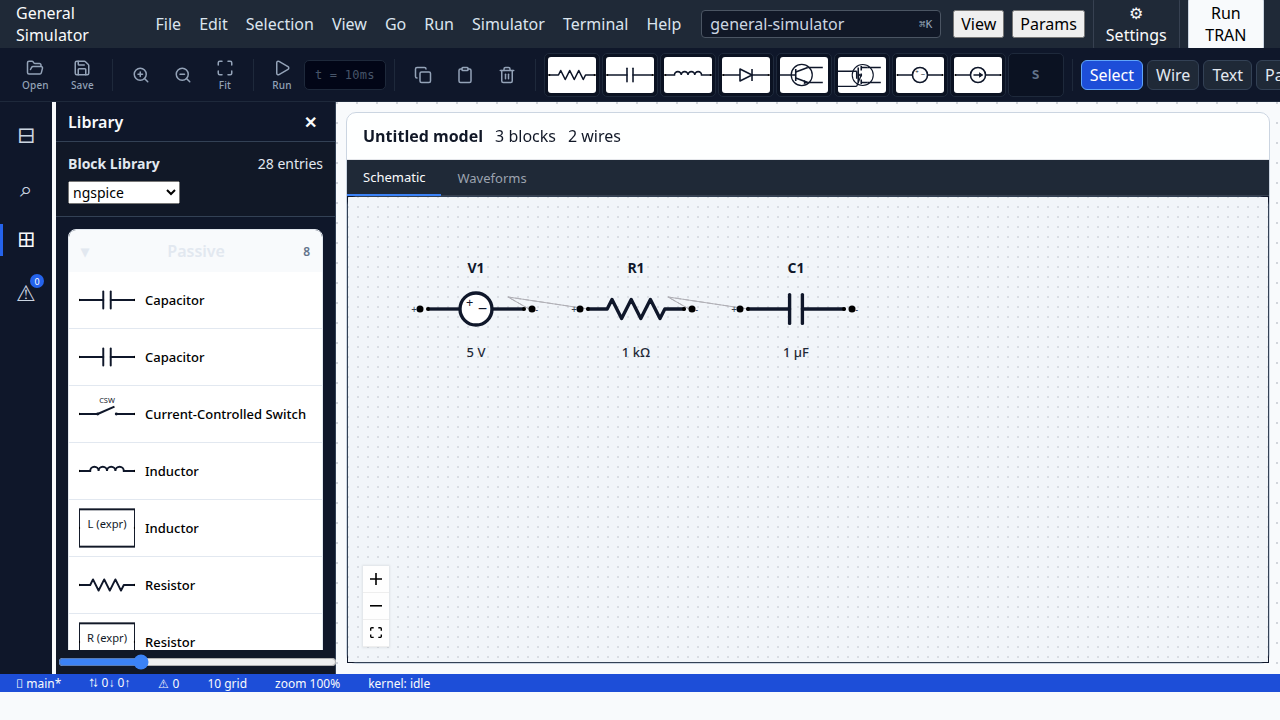
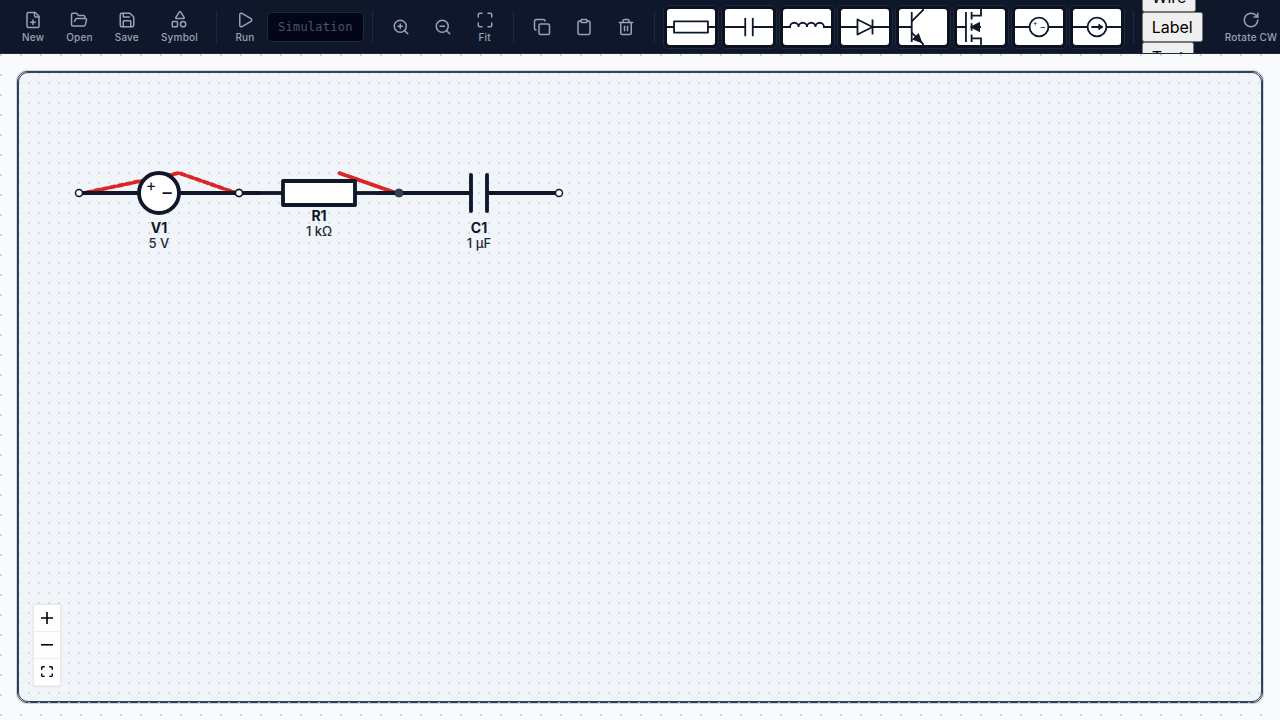
docs: what driving the schematic by mouse turned up
Five defects fixed, three catalog findings left as data decisions, one
suspicion checked against the engine's registry and withdrawn, and the
list of what is now verified.

diff --git a/docs/e2e-findings-2026-11-06.md b/docs/e2e-findings-2026-11-06.md
@@ -1,0 +1,124 @@
+# What driving the schematic by mouse turned up
+
+A record of the defects found by building the end-to-end suite, so the ones
+not fixed here are not lost. Each says what it was, how it showed up, and
+whether it is fixed.
+
+## Fixed
+
+### Recency could displace an exact search match
+
+Typing `passive.switch.voltage` into Quick Insert inserted
+`passive.switch.ideal` — **but only after the ideal switch had been inserted
+once in the same session.**
+
+`passive.switch.ideal` lists `passive.switch.voltage`, another component's
+type name, among its aliases. An exact alias match scored 100; the +40
+recency bonus took it to 140; an exact match on the voltage switch's own
+name scored 120. Recency outranked the thing the user had typed in full.
+
+It needed a *sequence* to appear, which is why no single test saw it and the
+492-component sweep did. Scoring now separates exact matches on a name (120),
+a label (110) and an alias (100), and no exact match takes the recency bonus
+at all — recency ranks things you might have meant, not things you have
+already named.
+
+### The variant picker could not be used from the keyboard
+
+Pressing Enter on a component with fidelity variants expanded a list of
+them, whose entries were click-only: no arrow keys, no Enter, nothing but
+Escape. Inserting a resistor by keyboard was therefore impossible, and from
+the outside it looked exactly like a search that had found nothing. The list
+now moves with the arrows and commits on Enter.
+
+### Naming a variant in full still asked which variant
+
+Typing `physical_electrical.passive.resistor` and then being asked which
+resistor is a step that exists only because the family has siblings. An
+exact name now inserts directly.
+
+### The smoke test had two dead steps
+
+`tests/e2e/smoke.spec.ts` pressed `Ctrl+Shift+.` once and waited for the
+Quick Insert search box. One press opens the *command palette* — a different
+dialog with a different placeholder — so it failed on its first step. It
+also pressed `Ctrl+T` to run, which is not bound to anything; the chord is
+F5. Both steps the test existed to guard were dead.
+
+### The old "manual" test wired nothing by mouse
+
+`rc-circuit-manual-video.spec.ts` moved the pointer from one component's
+centre to another's and then called `__gensim_wire_electrical(...)` to create
+the wire. It looked like a mouse test. No wire was ever drawn by mouse, so
+every bug in the wiring interaction was invisible to it.
+
+## Not fixed — data, and your call
+
+### 186 of 492 manifest entries are exact duplicates
+
+`catalog-manifest.json` lists 186 components twice — same `name`, same
+`filePath`. The runtime catalog dedupes by name so nothing visibly breaks,
+but the manifest is nearly 40% redundant and anything iterating it sees each
+of those twice. Looks like the generator walking a directory tree twice.
+
+### `passive.switch.ideal` claims another component's type name as an alias
+
+```yaml
+aliases: ['ideal switch', 'sw', 'gated switch', 'passive.switch.voltage']
+```
+
+A type name is not an alias of a different type. The ranking fix stops it
+causing the wrong insert, but the data is still wrong, and the same mistake
+elsewhere would be just as invisible.
+
+### Consecutive toolbar inserts land with their terminals coincident
+
+Clicking Insert Resistor then Insert Capacitor places them such that the
+resistor's `n` terminal and the capacitor's `p` terminal are at exactly the
+same point. A drag starting there is ambiguous about which it grabbed, and
+two parts whose pins coincide *look* connected without being wired.
+
+## Checked, and not a bug
+
+### `converter.phys2sig` has no input port
+
+It declares an output and nothing else, which looks broken for a
+physical-to-signal converter. It is not: it reads a circuit node *by name*
+through its `node`/`branch` parameters rather than through a wire, and
+`gsim-core`'s compile registry lists it among the blocks with no inputs at
+all, alongside `const`, `time` and the wave sources. The catalog matches the
+engine.
+
+## Verified working
+
+Everything below is exercised by real presses, travel and releases — no test
+hook performs an action.
+
+- Placing from the toolbar and from Quick Insert; dragging; terminals
+  following their component.
+- Wiring terminal to terminal; wires surviving a move, a rotation and an
+  undo; deleting a component taking its wires with it.
+- **Every port domain**: all seven connect to themselves, and all 42
+  cross-domain pairs are refused.
+- Converters bridging signal to electrical, and the direct connection being
+  refused.
+- Fan-in: an electrical node takes many wires, a signal input takes one.
+- Select, marquee, rotate (both ways, four times round), flip, copy, paste,
+  delete.
+- The inspector, including parameters that change a component's port count —
+  `control.sum`'s `signs` and `control.product`'s `n_inputs` — and wiring the
+  input that appears.
+- Grouping into a subcircuit, keeping wires that cross the boundary, and
+  stepping in and out.
+- The TIDA-style SOGI-PLL: 19 blocks, 25 wires, parameterised, drawn
+  entirely by mouse, then its front end grouped into a subcircuit.
+- All 492 catalog components insert and draw the ports they declare.
+
+## Not covered
+
+Running a simulation from the browser harness. It answers the handshake with
+a stub kernel that produces no samples, so pressing Run checks that the
+button is reachable and wired, not that the solver works. The solver is
+covered where it actually runs: the extension's own integration suite, and
+the engine's cross-check against an independent C implementation, which
+agreed to 3.8e-14 across 11 signals over 25,000 steps.
